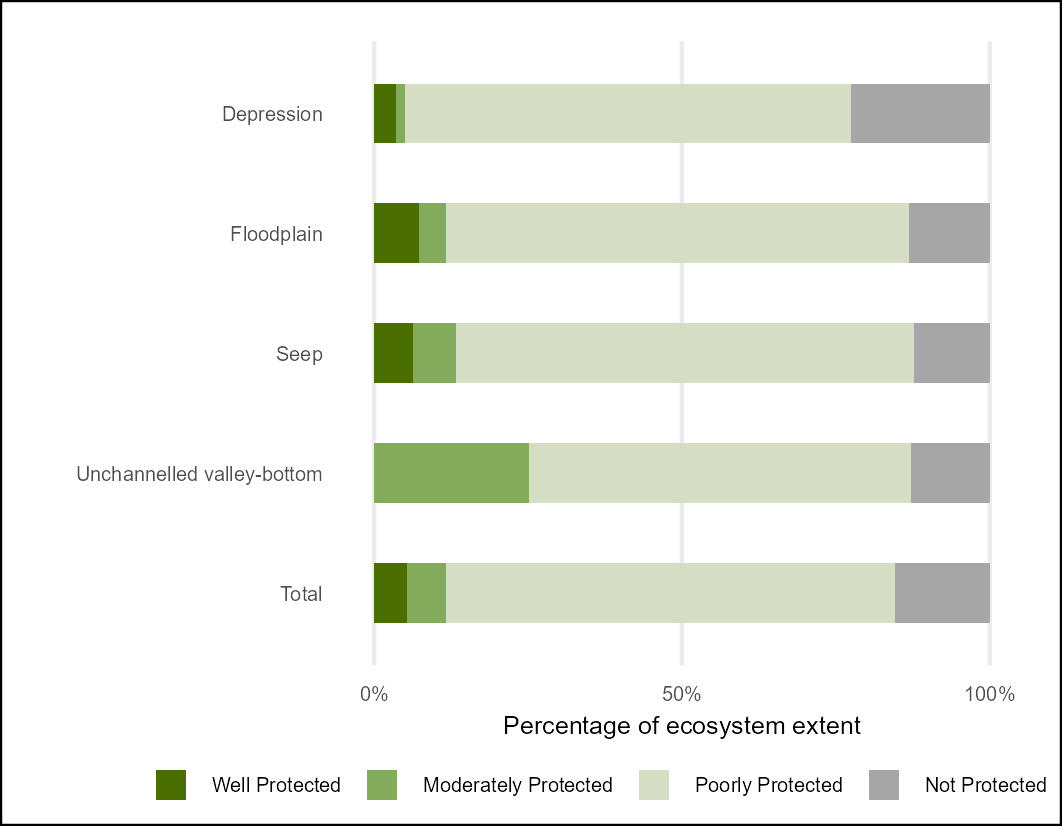
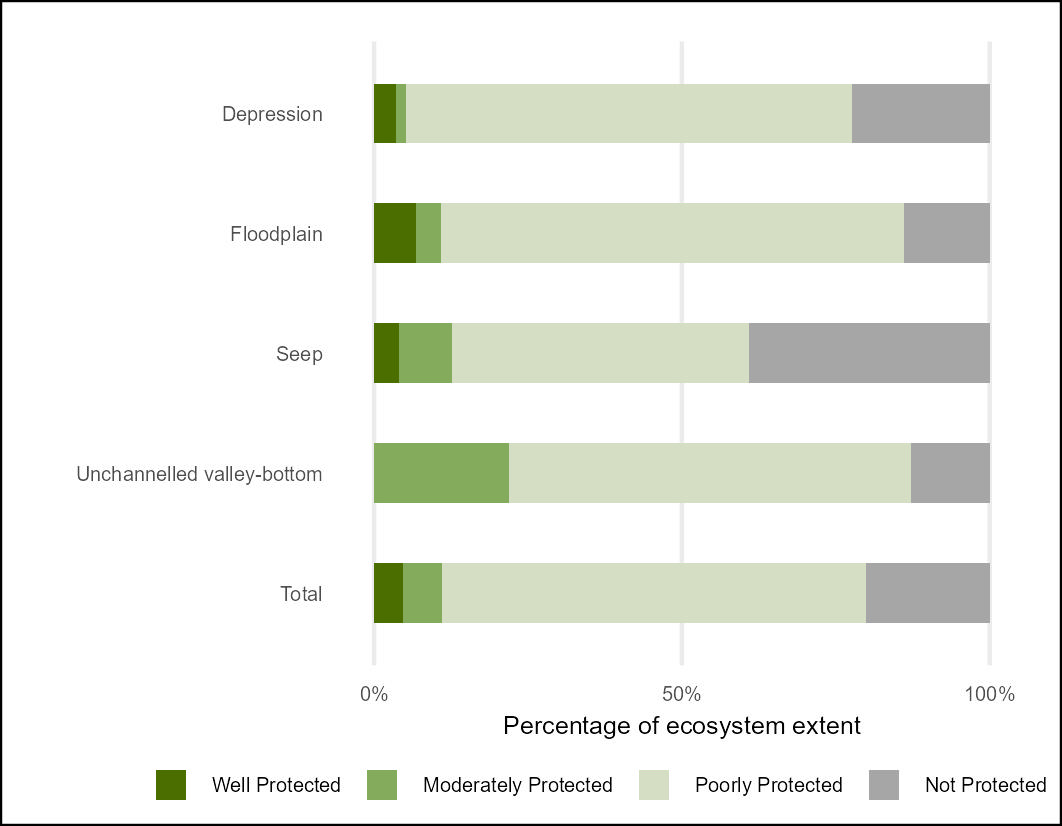
updated EPL with revised PES

diff --git a/README.md b/README.md
@@ -35,7 +35,7 @@ Summary table - extent of wetland per HGM zone per EPL category [epl24_wet_sum_e
 15% NP but 88% PP or NP
 
 | EPL 2024 - types | EPL 2024 - extent |
-|------------------------------------|------------------------------------|
+|----|----|
 | ![](outputs/epl24_wet_bar_plot_count.jpeg) | ![](outputs/epl24_wet_bar_plot_ext.jpeg) |
 
 EPL Index
